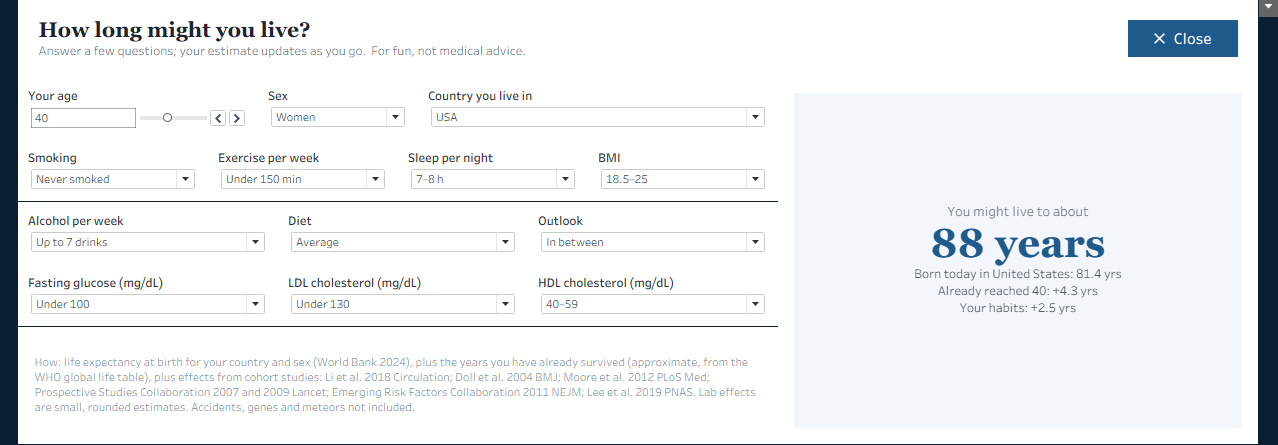
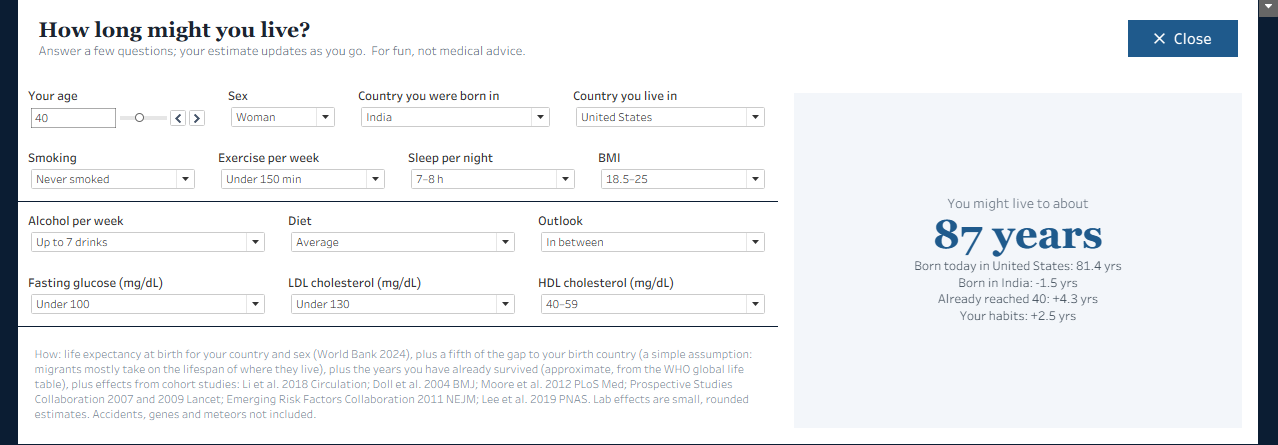
Who Lives Longest: birth country in the predictor

Changed region(s): [[0.0305, 0.7888, 0.6103, 0.964], [0.7019, 0.4382, 0.885, 0.7303], [0.0915, 0.2045, 0.5493, 0.2921]]

diff --git a/who-lives-longest/index.html b/who-lives-longest/index.html
@@ -126,7 +126,7 @@ footer{border-top:1px solid var(--line);margin-top:56px;padding-top:16px;font-si
         <tr><td><b>FIXED LOD expressions</b></td><td>Region tiles</td><td>Look up the selected unit's level and parents once, on every row.</td></tr>
         <tr><td><b>Parameter-driven drill-down</b></td><td>Explore-the-hierarchy table</td><td>Opens and closes rows five levels deep with one parameter and one click action.</td></tr>
         <tr><td><b>Dynamic zone visibility</b></td><td>“How long might you live?” panel</td><td>Shows the panel and hides the map, numbers and charts from one boolean field.</td></tr>
-        <tr><td><b>Range and list parameters</b></td><td>Predictor questions</td><td>13 inputs (a slider and 12 dropdowns) feed a single calculation.</td></tr>
+        <tr><td><b>Range and list parameters</b></td><td>Predictor questions</td><td>14 inputs (a slider and 13 dropdowns) feed a single calculation.</td></tr>
         <tr><td><b>Filled map + geographic role</b></td><td>“Where lives are longest”</td><td>ISO alpha-2 codes with the Country role; one filter zooms the map to the selection.</td></tr>
         <tr><td><b>Calculated labels</b></td><td>Trend chart</td><td>Labels the line ends and the dips (COVID-19, HIV/AIDS) from a single field.</td></tr>
         <tr><td><b>Multi-field formatted labels</b></td><td>KPI band, spotlight, predictor result</td><td>Big number, unit and context line in one Text mark, each in its own size and colour.</td></tr>
@@ -201,15 +201,16 @@ END</code></pre>
   <h2 id="predictor">6 · The predictor: parameters + dynamic zone visibility</h2>
   <figure>
     <img src="images/predictor.png" alt="The predictor panel: questions on the left, the estimate (88 years) on the right with how it is built up" loading="lazy">
-    <figcaption>A 40-year-old woman in the United States: 81.4 years at birth, +4.3 for already reaching 40, +2.5 for her habits.</figcaption>
+    <figcaption>A 40-year-old woman born in India, living in the United States: 81.4 years at birth there, −1.5 for her birth country, +4.3 for already reaching 40, +2.5 for her habits.</figcaption>
   </figure>
   <h3>The inputs</h3>
-  <p>13 parameters: a <b>range parameter</b> shown as a slider (age), and list parameters for sex, country (217 values with display aliases), smoking, exercise, sleep, BMI, alcohol, diet, outlook, fasting glucose, LDL and HDL.</p>
+  <p>14 parameters: a <b>range parameter</b> shown as a slider (age), and list parameters for sex, country you were born in, country you live in (217 names each), smoking, exercise, sleep, BMI, alcohol, diet, outlook, fasting glucose, LDL and HDL.</p>
   <h3>The model</h3>
-  <p>One calculation over the chosen country's row (filtered by <code>[Unit No] = [p_Country] AND [Series] = [p_Sex]</code>):</p>
+  <p>One calculation over the country-you-live-in row (filtered by <code>[Unit Name] = [p_LiveIn] AND [Series] = [p_Sex]</code>):</p>
   <pre><code>// Pred Estimate
 MAX([p_Age] + 1,
     AVG([Life Expectancy])        // at birth, country and sex (World Bank 2024)
+  + [Pred Born Adj]                // a fifth of the gap to the birth country (assumption)
   + MIN([Pred Survived])          // years already survived (approx. WHO global life table)
   + MIN([Pred Habits]))           // sum of CASE [p_Smoking] WHEN 'Smoke now' THEN -9 ... END, capped -20..+12
 
@@ -219,7 +220,14 @@ ELSEIF [p_Age] &lt;= 50 THEN 1 + ([p_Age] - 20) * 5 / 30
 ELSEIF [p_Age] &lt;= 65 THEN 6 + ([p_Age] - 50) * 3.5 / 15
 ELSEIF [p_Age] &lt;= 80 THEN 9.5 + ([p_Age] - 65) * 5.5 / 15
 ELSE 15 + ([p_Age] - 80) * 0.6 END</code></pre>
-  <p>The effect sizes come from large cohort studies: smoking (Doll et al., <i>BMJ</i> 2004), activity (Moore et al., <i>PLoS Medicine</i> 2012), BMI (Prospective Studies Collaboration, <i>Lancet</i> 2009), the combined habits (Li et al., <i>Circulation</i> 2018), diabetes (Emerging Risk Factors Collaboration, <i>NEJM</i> 2011), cholesterol (Prospective Studies Collaboration, <i>Lancet</i> 2007) and optimism (Lee et al., <i>PNAS</i> 2019). The lab effects are small, rounded estimates. It is for fun, not medical advice.</p>
+  <p>The birth country reaches a different row than the filtered one, so it uses a FIXED LOD, which is computed before dimension filters:</p>
+  <pre><code>// Pred Born LE: the birth country's life expectancy, same sex
+{FIXED : AVG(IIF([Kind] = 'Sex' AND [Level] = 5 AND [Unit Name] = [p_BornIn]
+               AND [Series] = [p_Sex], [Life Expectancy], NULL))}
+
+// Pred Born Adj: a fifth of the gap (migrants mostly take on the lifespan of where they live)
+IIF([p_BornIn] = [p_LiveIn], 0, 0.2 * (MIN([Pred Born LE]) - AVG([Life Expectancy])))</code></pre>
+  <p>The 0.2 is a simple assumption, not a published figure: research on migrants finds their lifespan mostly follows the country they live in. The other effect sizes come from large cohort studies: smoking (Doll et al., <i>BMJ</i> 2004), activity (Moore et al., <i>PLoS Medicine</i> 2012), BMI (Prospective Studies Collaboration, <i>Lancet</i> 2009), the combined habits (Li et al., <i>Circulation</i> 2018), diabetes (Emerging Risk Factors Collaboration, <i>NEJM</i> 2011), cholesterol (Prospective Studies Collaboration, <i>Lancet</i> 2007) and optimism (Lee et al., <i>PNAS</i> 2019). The lab effects are small, rounded estimates. It is for fun, not medical advice.</p>
   <h3>The pop-up</h3>
   <ol>
     <li>A parameter <code>p_ShowPredictor</code> holds <code>"Y"</code> or <code>"N"</code>. The gold button and the Close button are one-mark sheets; their parameter actions write <code>"Y"</code> and <code>"N"</code>.</li>
@@ -246,7 +254,7 @@ ELSE 15 + ([p_Age] - 80) * 0.6 END</code></pre>
   <div class="lesson"><h3>Tableau caches a text file's columns</h3><p>After new columns were added to a CSV, Tableau kept reporting them as missing, because it reuses a cached copy keyed by the file path. Putting the data year in the file name gives new data a fresh file.</p></div>
   <div class="lesson"><h3>Floating zones keep out of each other's way</h3><p>Tableau Desktop would not paint one large floating box behind other floating zones, and pushed floating sheets out of other sheets' slots. So the predictor panel takes the map's exact slot (with the map hidden) and is built from white zones that meet edge to edge.</p></div>
   <div class="lesson"><h3>Header styles live in the label rule</h3><p>Colour, weight and alignment for a row header go on the field's <i>label</i> format; the <i>header</i> format only sets its width and size. That is why the +/– needed its own field.</p></div>
-  <div class="lesson"><h3>Integer maths in calculations</h3><p><code>%</code> needs integers (wrap in <code>INT</code>), and dividing two integers returns a decimal; use <code>DIV()</code> for whole-number division.</p></div>
+  <div class="lesson"><h3>Big parameter lists: store the label as the value</h3><p>A 217-country list with codes as values and names as aliases would not select its value in a compact dropdown (it showed the first country). Storing the names themselves as the values fixed it.</p></div><p><code>%</code> needs integers (wrap in <code>INT</code>), and dividing two integers returns a decimal; use <code>DIV()</code> for whole-number division.</p></div>
   <div class="lesson"><h3>Microstates win every ranking</h3><p>Ranking all 217 countries puts Monaco, San Marino and Liechtenstein on top. Limiting rankings to countries of 1M+ people gives a more useful story: Hong Kong, Kuwait, Switzerland.</p></div>
 
   <footer>
